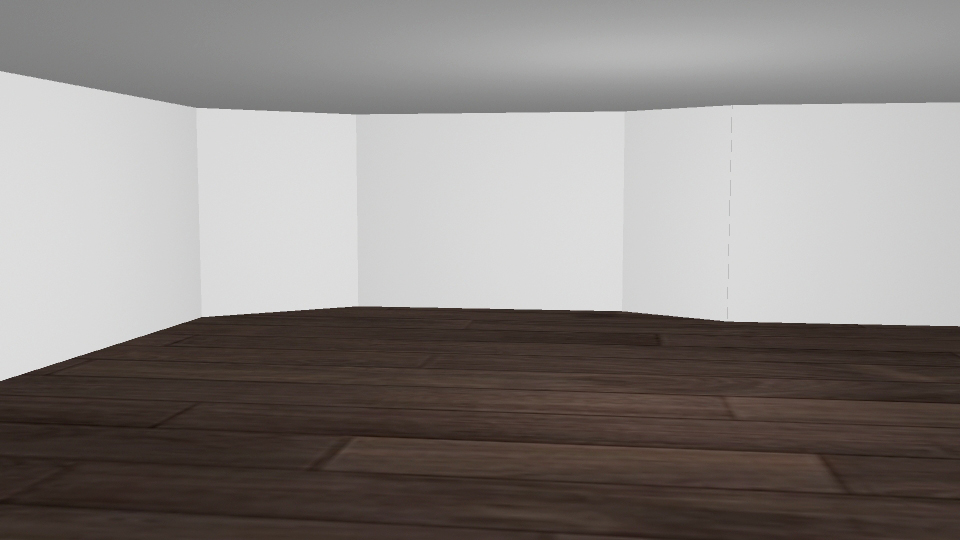
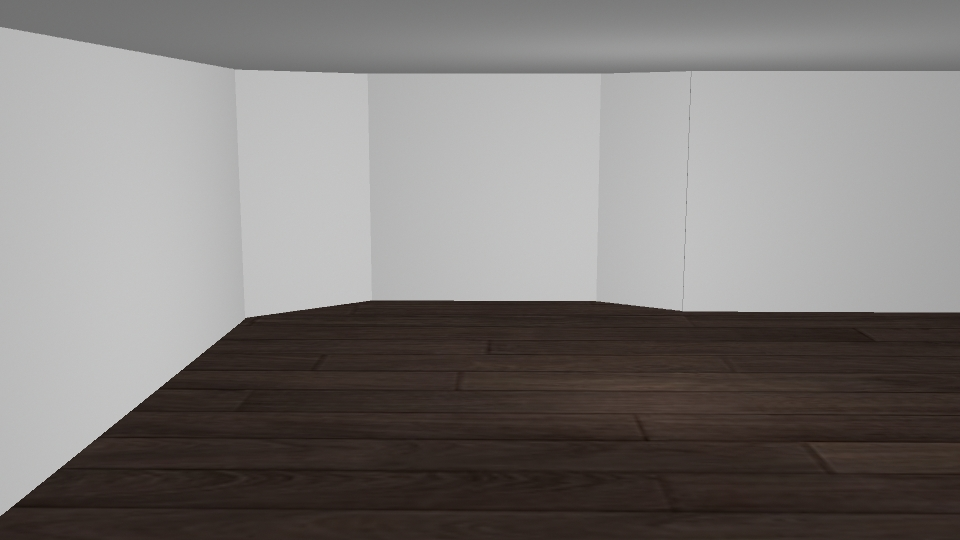
integration_demo

diff --git a/index.html b/index.html
@@ -5,18 +5,17 @@
 <link rel="stylesheet" href="https://cdn.jsdelivr.net/gh/fancyapps/fancybox@3.5.7/dist/jquery.fancybox.min.css" />
 <link rel="stylesheet" href="https://maxcdn.bootstrapcdn.com/bootstrap/4.0.0/css/bootstrap.min.css" integrity="sha384-Gn5384xqQ1aoWXA+058RXPxPg6fy4IWvTNh0E263XmFcJlSAwiGgFAW/dAiS6JXm" crossorigin="anonymous">
 <script src="https://cdnjs.cloudflare.com/ajax/libs/interact.js/1.2.8/interact.min.js"></script>
-
+<script type="text/javascript" src="http://code.jquery.com/jquery-1.9.1.js"></script>
+<link href="https://fonts.googleapis.com/css?family=Pathway+Gothic+One&display=swap" rel="stylesheet">
 <style>
 
 .gallery  {
-  background-image: url("gallery.jpg");
+  background-image: url("gallery2.jpg");
   background-repeat:no-repeat;
   background-size:contain;
-  display: block;
-  margin-left: auto;
-  margin-right: auto;
   height: 550px;
-  width: 70%;
+  margin: 0 auto;
+  width: 1000px;
   z-index: -1;
 }
 
@@ -26,40 +25,112 @@
   color: white;
   font-size: 20px;
   font-family: sans-serif;
-  border-radius: 8px;
-  padding: 20px;
   margin: 30px 20px;
-
-  width: 300px;
-height: 300px;
+  width: 150px;
+  height: 150px;
   /* This makes things *much* easier */
   box-sizing: border-box;
+  box-shadow: 5px 5px 5px #3d3d3d;
 }
 
 .resize-container {
-  width: 100px;
-  height: 500px;
+  position:absolute;
+
 }
+#title{
+  padding: 250px;
+  font-family: 'Pathway Gothic One', ;
+  font-size: 50px;
+  text-align: center;
+}
+#intro{
+  padding-top: 100px;
+  padding-bottom: 100px;
+}
+.center {
+  display: block;
+  margin-left: auto;
+  margin-right: auto;
+}
+p {
+  text-align: justify;
+  font-family: 'Pathway Gothic One', ;
+}
+h2 {
+  font-family: 'Pathway Gothic One', ;
+  text-align: center;
+}
+
 </style>
 </head>
+
 <body>
+
   <script src="https://cdn.jsdelivr.net/gh/fancyapps/fancybox@3.5.7/dist/jquery.fancybox.min.js"></script>
   <script src="https://cdn.jsdelivr.net/npm/jquery@3.4.1/dist/jquery.min.js"></script>
   <script src="https://code.jquery.com/jquery-3.2.1.slim.min.js" integrity="sha384-KJ3o2DKtIkvYIK3UENzmM7KCkRr/rE9/Qpg6aAZGJwFDMVNA/GpGFF93hXpG5KkN" crossorigin="anonymous"></script>
   <script src="https://cdnjs.cloudflare.com/ajax/libs/popper.js/1.12.9/umd/popper.min.js" integrity="sha384-ApNbgh9B+Y1QKtv3Rn7W3mgPxhU9K/ScQsAP7hUibX39j7fakFPskvXusvfa0b4Q" crossorigin="anonymous"></script>
   <script src="https://maxcdn.bootstrapcdn.com/bootstrap/4.0.0/js/bootstrap.min.js" integrity="sha384-JZR6Spejh4U02d8jOt6vLEHfe/JQGiRRSQQxSfFWpi1MquVdAyjUar5+76PVCmYl" crossorigin="anonymous"></script>
 
+<section>
+<div id="title">Now Try The How And Why
+<img src="divider.jpg" class="center"></div>
+</section>
+<section>
+  <div id="intro">
+  <div class="container">    <h2>Introduction</h2> <br>
+    <div class="row">
+      <div class="col-lg">
+        <p>The Exhibition Now Try the How and Why [NTHW] challenges the history of curation by researching how interactive exhibitions result in the creation of diversity in art and education in art galleries.
 
-<div class="header"></div>
+The concept for the curation of this exhibition originated from the reading of Margaret Atwood's 1983 short story, Happy Endings. In this story, Atwood states that the most interesting part is the plot. This story inspired my exhibition’s format of the different meanings or results when creating, of which Atwood sums up in the last line of the story as “Now Try the How and Why” (Atwood 1983)
 
+This exhibition speaks to how narratives in fine arts are displayed, and the subjectivity of personal influence on curatorial themes and public perceptions of them. By encouraging observers to curate the placement of these artworks through the generation of narratives, this exhibition offers an alternative to typical visitor contributions and educational activities with its inclusion of an interactive technological aspect, and the opportunity for participants to explore the roles of a curator.
+</p>
+</div>
+  <div class="col-lg"><p>When asking viewers to participate and to comment on what they are seeing within the artworks and then coming up with a curatorial statement, I modelled this off the methods extracted from my study of interviews with educational staff from the Tate Britain. Their methods are to encourage people who are new to looking at art by seeing, decoding and reflecting: providing a guiding structure for people to analyze the works and create meaningful engagement with the artworks (Amaia and Aguirre). Because of the non-literal artwork chosen, there is an opening for observers to reflect on the artworks and what they envision the artworks to be thematically.
+
+Producing shows with more inclusivity, further outreach, educational programming and observer participation will expand the narrative on curating and visitor participation in galleries and institutions. NTHW explores improvements within gallery systems, creates a new model for education, and furthers space for visitors’ perspectives, updating curatorial roles and the reflection of the public’s knowledge of artwork.</div>
+    <p></div>
+      <img src="divider.jpg" class="center">
+  </div>
+</div>
+</section>
+<section>
 <div class="gallery"></div>
 
-<div class="resize-container">
-  <div class="resize-drag">
-
+<div class="img_gallery">
+  <div class="container">
+  <div class="row">
+    <div class="col-sm">
+      <div class="resize-container">
+        <div class="resize-drag">
+      </div>
+      </div>
+    </div>
+    <div class="col-sm">
+      <div class="resize-container">
+        <div class="resize-drag">
+      </div>
+      </div>
+    </div>
+    <div class="col-sm">
+      <div class="resize-container">
+        <div class="resize-drag">
+      </div>
+      </div>
+    </div>
+    <div class="col-sm">
+      <div class="resize-container">
+        <div class="resize-drag">
+      </div>
+      </div>
+    </div>
   </div>
 </div>
 
+</div>
+</section>
 <script>
 
 interact('.resize-drag')
@@ -107,7 +178,6 @@ function dragMoveListener (event) {
     target.setAttribute('data-y', y);
   }
 </script>
-
 
   </body>
 
